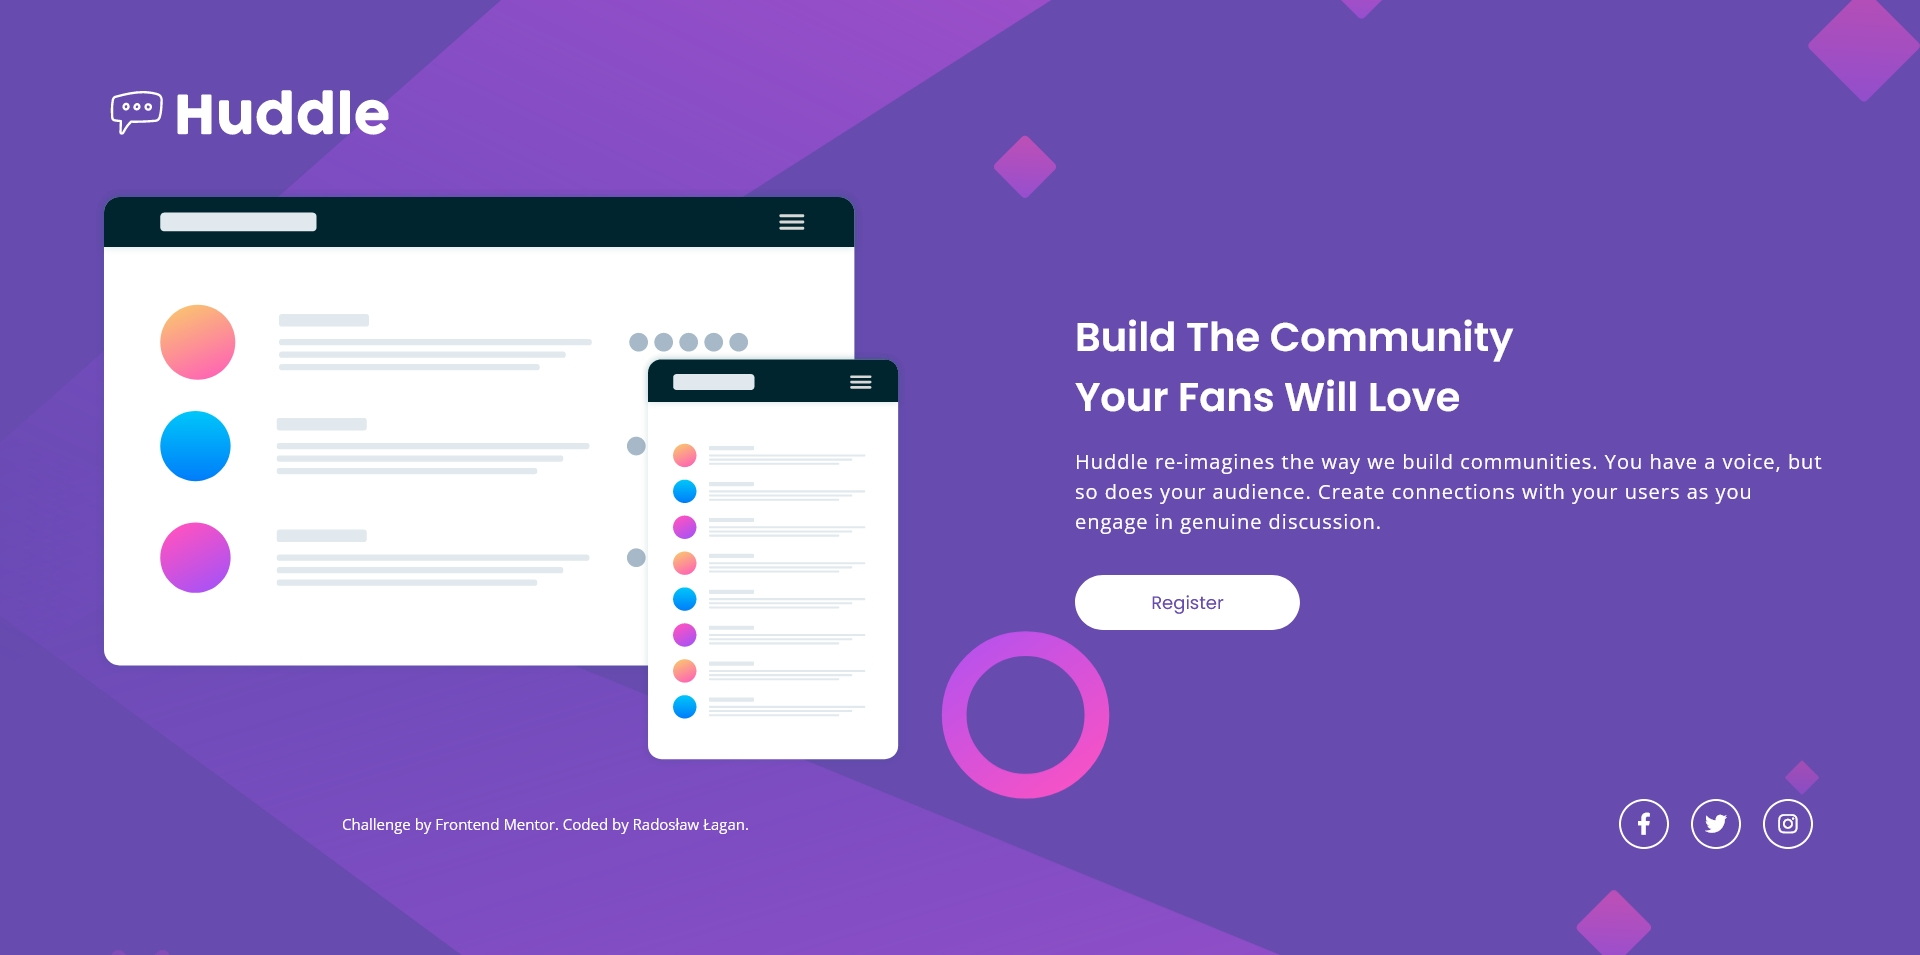
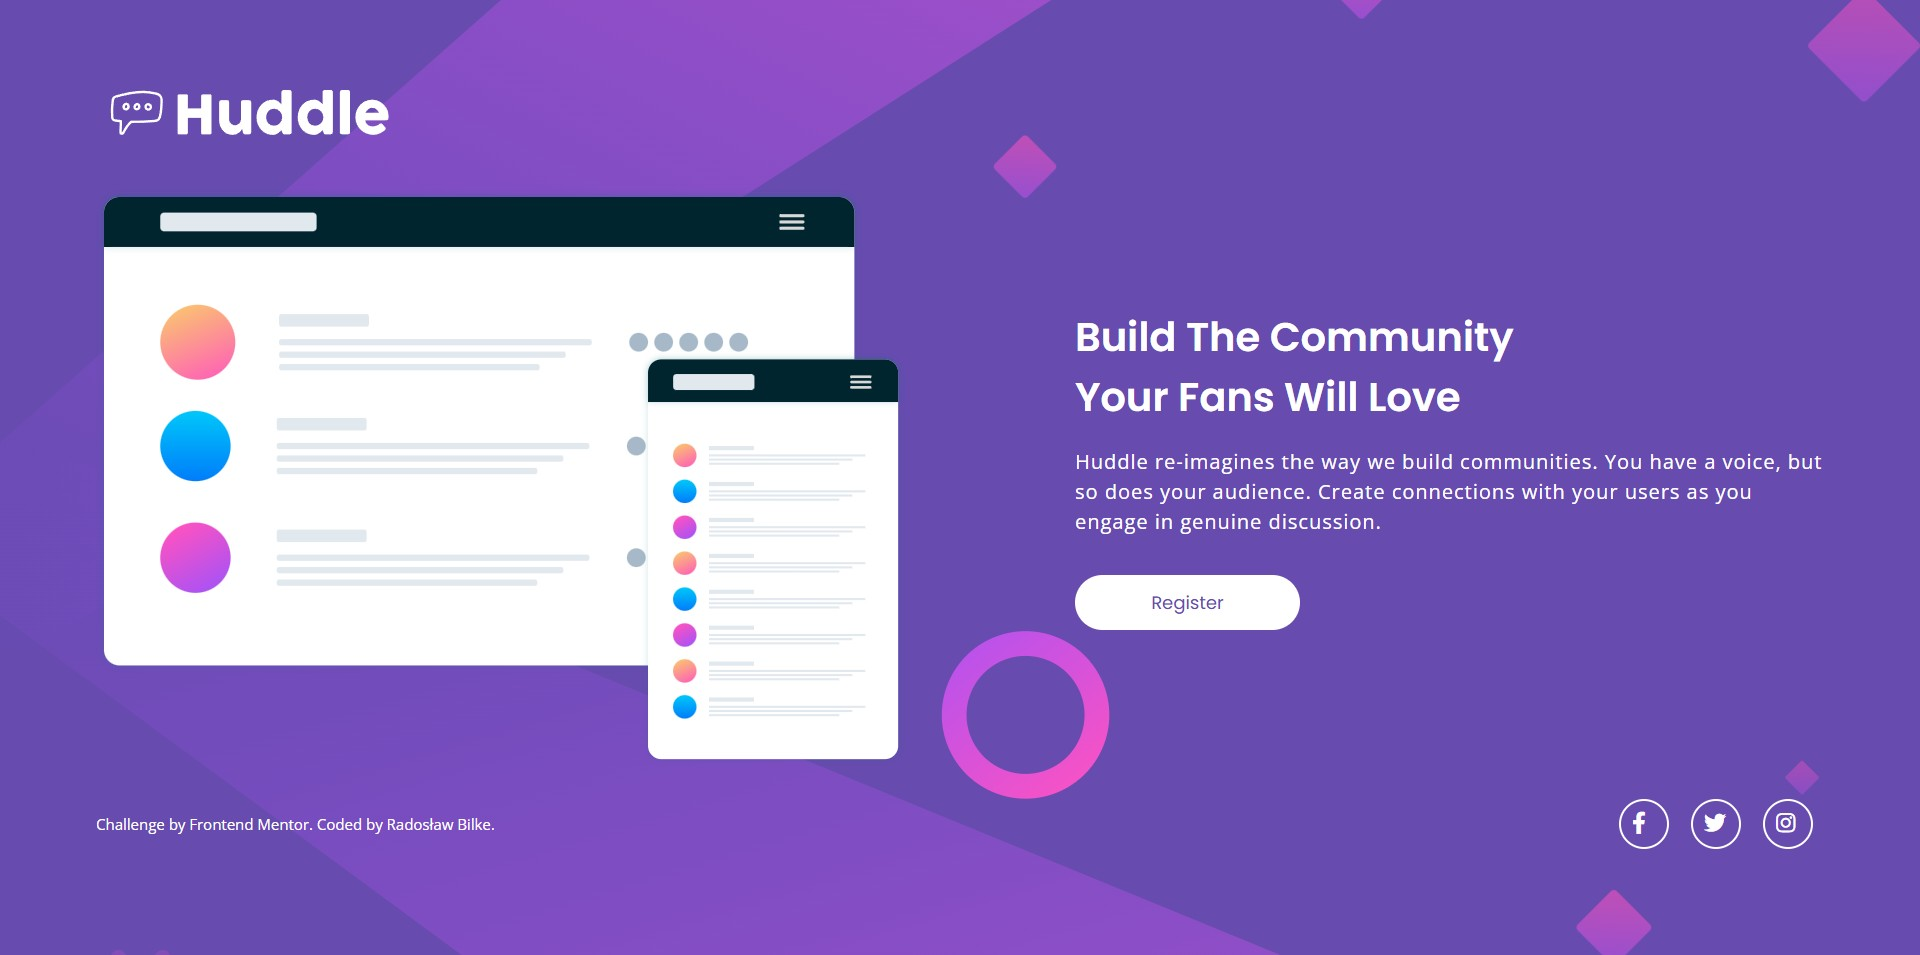
Update screenshot and replace Font Awesome kit

diff --git a/index.html b/index.html
@@ -8,7 +8,7 @@
   <link rel="preconnect" href="https://fonts.googleapis.com">
   <link rel="preconnect" href="https://fonts.gstatic.com" crossorigin>
   <link href="https://fonts.googleapis.com/css2?family=Open+Sans&family=Poppins:wght@400;600&display=swap" rel="stylesheet">
-  <script src="https://kit.fontawesome.com/b76dbff05e.js" crossorigin="anonymous"></script>
+  <link rel="stylesheet" href="https://cdnjs.cloudflare.com/ajax/libs/font-awesome/5.15.4/css/all.min.css" integrity="sha512-1ycn6IcaQQ40/MKBW2W4Rhis/DbILU74C1vSrLJxCq57o941Ym01SwNsOMqvEBFlcgUa6xLiPY/NS5R+E6ztJQ==" crossorigin="anonymous" referrerpolicy="no-referrer">
   <link rel="stylesheet" href="css/main.css">
 </head>
 
